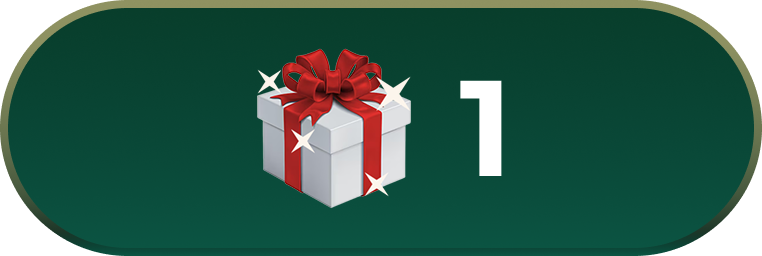
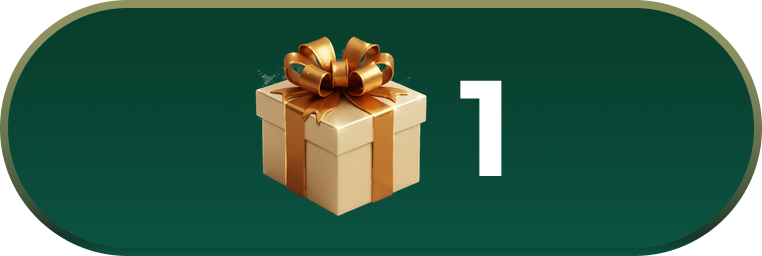
Fill the cover on phones and count cleared gold gift boxes.

Changed region(s): [[0.332, 0.125, 0.5735, 0.8438]]

diff --git a/src/components/pages/landing/Landing.tsx b/src/components/pages/landing/Landing.tsx
@@ -119,9 +119,8 @@ const Landing: React.FC<LandingProps> = ({
 
     const fit = () => {
       const width = parent.clientWidth;
-      const height = parent.clientHeight;
-      if (!width || !height) return;
-      setScale(Math.min(width / STAGE_W, height / STAGE_H));
+      if (!width) return;
+      setScale(width / STAGE_W);
     };
 
     fit();
@@ -253,12 +252,13 @@ const Landing: React.FC<LandingProps> = ({
 
   return (
     <div className={styles.root} ref={rootRef}>
+      <div className={styles.sizer} style={{ height: STAGE_H * scale }}>
       <div
         className={styles.stage}
         style={{
           width: STAGE_W,
           height: STAGE_H,
-          transform: `translate(-50%, -50%) scale(${scale})`,
+          transform: `scale(${scale})`,
         }}
       >
         <img className={styles.plate} src={coverSrc} alt="" />
@@ -292,7 +292,7 @@ const Landing: React.FC<LandingProps> = ({
             <div className={styles.giftMeta}>
               <span className={`${styles.giftDates} ${valueFont.className}`}>1–18 Dec</span>
               <div className={`${styles.countPill} ${valueFont.className}`}>
-                <img className={styles.pillGift} src={`${cardBase}/gift.png`} alt="" />
+                <img className={styles.pillGift} src={`${gameConfig.basePath}/images/xmas-giftbox-2.png?v=goldgift`} alt="" />
                 <span>{formatNumberWithCommas(specialItemPoint)}</span>
               </div>
             </div>
@@ -315,7 +315,7 @@ const Landing: React.FC<LandingProps> = ({
           <div className={`${styles.bonus} ${valueFont.className}`}>
             <img className={styles.bonusBg} src={`${cardBase}/plus-bubble.svg`} alt="" />
             <span>+30</span>
-            <img className={styles.bonusGift} src={`${cardBase}/gift.png`} alt="" />
+            <img className={styles.bonusGift} src={`${gameConfig.basePath}/images/xmas-giftbox-2.png?v=goldgift`} alt="" />
           </div>
           <div className={`${styles.flakeRow} ${styles.flakeBottom}`}>
             {cardFlakes.map((flake, index) => (
@@ -326,6 +326,7 @@ const Landing: React.FC<LandingProps> = ({
         <button ref={playRef} type="button" className={styles.playButton} onClick={onPlay} aria-label="Play">
           <img src={playSrc} alt="" />
         </button>
+      </div>
       </div>
 
       <div className={styles.fxToggles}>

diff --git a/src/config/gameConfig.ts b/src/config/gameConfig.ts
@@ -141,7 +141,7 @@ export const gameConfig = {
       `${basePath}/images/items-deer.png`,
       `${basePath}/images/items-angel.png`,
       `${basePath}/images/items-pug.png?v=sit`,
-      `${basePath}/images/items-lantern.png`,
+      `${basePath}/images/items-giftbox.png?v=goldgift`,
       `${basePath}/images/items-tree.png`,
       `${basePath}/images/items-snowman.png`,
     ],
@@ -184,12 +184,12 @@ export const gameConfig = {
       itemHighlightStar: `${basePath}/images/item-highlight-star.png`,
       instructionsAnimation: `${basePath}/images/instructions-animation-xmas.gif?v=nostar`,
       instructionsTimeBar: `${basePath}/images/instructions-time-bar.png?v=art`,
-      instructionsGiftNumSample: `${basePath}/images/instructions-gift-num-sample.png?v=art`,
+      instructionsGiftNumSample: `${basePath}/images/instructions-gift-num-sample.png?v=goldgift`,
       
       checkInDialogCheckInBox: {
-        day1:  `${basePath}/images/check-in-box-day-1.png?v=art`,
-        day2:  `${basePath}/images/check-in-box-day-2.png?v=art`,
-        day3:  `${basePath}/images/check-in-box-day-3.png?v=art`,
+        day1:  `${basePath}/images/check-in-box-day-1.png?v=goldgift`,
+        day2:  `${basePath}/images/check-in-box-day-2.png?v=goldgift`,
+        day3:  `${basePath}/images/check-in-box-day-3.png?v=goldgift`,
       },
 
       checkInDialogCheckInTopBanner: {
@@ -198,9 +198,9 @@ export const gameConfig = {
         day3:  `${basePath}/images/check-in-box-day-3-top-banner.png?v=xmas`,
       },
 
-      giftBoxIcon: `${basePath}/images/xmas-giftbox.png`,
+      giftBoxIcon: `${basePath}/images/xmas-giftbox-2.png?v=goldgift`,
 
-      gameBottomGiftNumBar: `${basePath}/images/game-gift-box-bar.png?v=art`,
+      gameBottomGiftNumBar: `${basePath}/images/game-gift-box-bar.png?v=goldgift`,
 
       endDialogGiftBoxBg: `${basePath}/images/end-dialog-gift-box-bg.png?v=frame`,
     },

diff --git a/src/components/pages/game/Board.tsx b/src/components/pages/game/Board.tsx
@@ -54,7 +54,7 @@ const Board: React.FC<BoardProps> = ({
   });
   // const invalidSound = useSound("/sounds/invalid.mp3", { volume: 0.4 });
 
-  const specialItemType = 1; // Assuming type 1 is the special item
+  const specialItemType = 4; // Gift box, the fourth board item
 
   // Initialize the board with random items
   const initializeBoard = () => {
@@ -293,7 +293,7 @@ const Board: React.FC<BoardProps> = ({
 
     const newBoard = [...board];
 
-    // Count special items (type === 1) in matches
+    // Count cleared gift boxes
     let specialItemCount = 0;
 
     // Mark matched items

diff --git a/src/components/dialogs/GameCheckInEndDialog.module.scss b/src/components/dialogs/GameCheckInEndDialog.module.scss
@@ -65,14 +65,14 @@
 
 .titleImage {
   position: relative;
-  width: 105%;
-  left: -2.5%;
+  display: block;
+  width: calc(105% * 0.75);
   margin-left: auto;
   margin-right: auto;
 }
 
 .contentContainer {
-  margin-top: clamp(calc(-30 / 390 * 600px), calc(-30 / 390 * 100vw), 0px);
+  margin-top: clamp(calc(-22.5 / 390 * 600px), calc(-22.5 / 390 * 100vw), 0px);
   padding: clamp(0px, calc(45 / 390 * 100vw), calc(45 / 390 * 600px))
     clamp(0px, calc(25 / 390 * 100vw), calc(25 / 390 * 600px))
     clamp(0px, calc(25 / 390 * 100vw), calc(25 / 390 * 600px))

diff --git a/src/components/dialogs/GameInstructionsDialog.module.scss b/src/components/dialogs/GameInstructionsDialog.module.scss
@@ -23,12 +23,14 @@
 
 .titleImage {
   position: relative;
-  width: 105%;
-  left: -2.5%;
+  display: block;
+  width: calc(105% * 0.75);
+  margin-left: auto;
+  margin-right: auto;
 }
 
 .contentContainer {
-  margin-top: clamp(calc(-30 / 390 * 600px), calc(-30 / 390 * 100vw), 0px);
+  margin-top: clamp(calc(-22.5 / 390 * 600px), calc(-22.5 / 390 * 100vw), 0px);
   padding: clamp(0px, calc(45 / 390 * 100vw), calc(45 / 390 * 600px))
     clamp(0px, calc(25 / 390 * 100vw), calc(25 / 390 * 600px))
     clamp(0px, calc(25 / 390 * 100vw), calc(25 / 390 * 600px))

diff --git a/src/components/pages/landing/Landing.module.scss b/src/components/pages/landing/Landing.module.scss
@@ -2,15 +2,26 @@
   position: relative;
   width: 100%;
   height: 100%;
-  overflow: hidden;
+  overflow-x: hidden;
+  overflow-y: auto;
   background: #140c0a;
+}
+
+:global(div#root) > .root {
+  overflow-x: hidden;
+  overflow-y: auto;
+}
+
+.sizer {
+  position: relative;
+  width: 100%;
 }
 
 .stage {
   position: absolute;
-  left: 50%;
-  top: 50%;
-  transform-origin: center center;
+  left: 0;
+  top: 0;
+  transform-origin: top left;
   overflow: hidden;
   background: #1a100c;
 }

diff --git a/src/components/dialogs/GamePauseDialog.module.scss b/src/components/dialogs/GamePauseDialog.module.scss
@@ -54,8 +54,8 @@
 
 .titleImage {
   position: relative;
-  width: clamp(0px, calc(360 / 390 * 100vw), calc(360 / 390 * 600px));
-  margin-bottom: clamp(calc(-26 / 390 * 600px), calc(-26 / 390 * 100vw), 0px);
+  width: clamp(0px, calc(270 / 390 * 100vw), calc(270 / 390 * 600px));
+  margin-bottom: clamp(calc(-19.5 / 390 * 600px), calc(-19.5 / 390 * 100vw), 0px);
 }
 
 .button {
